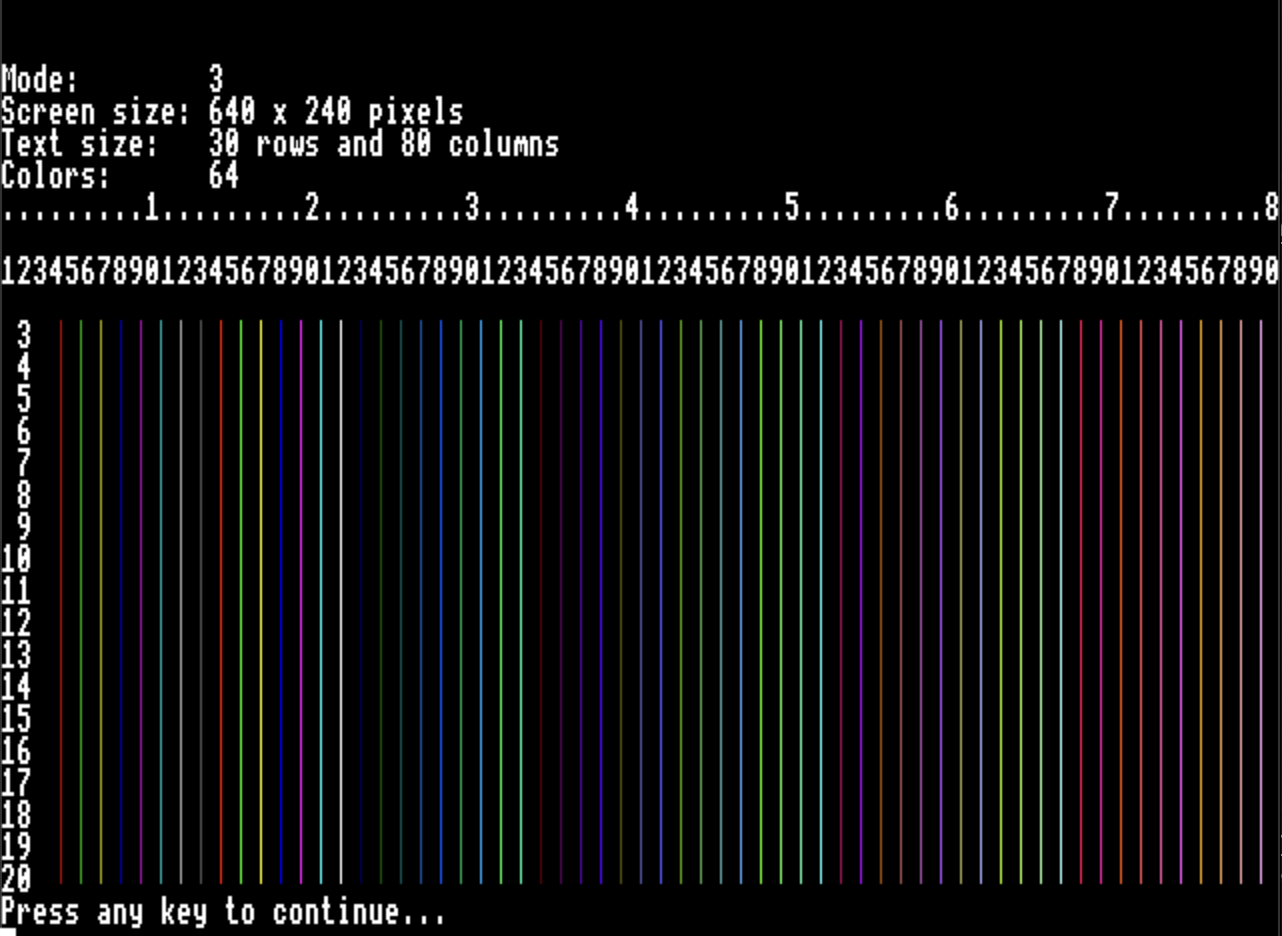
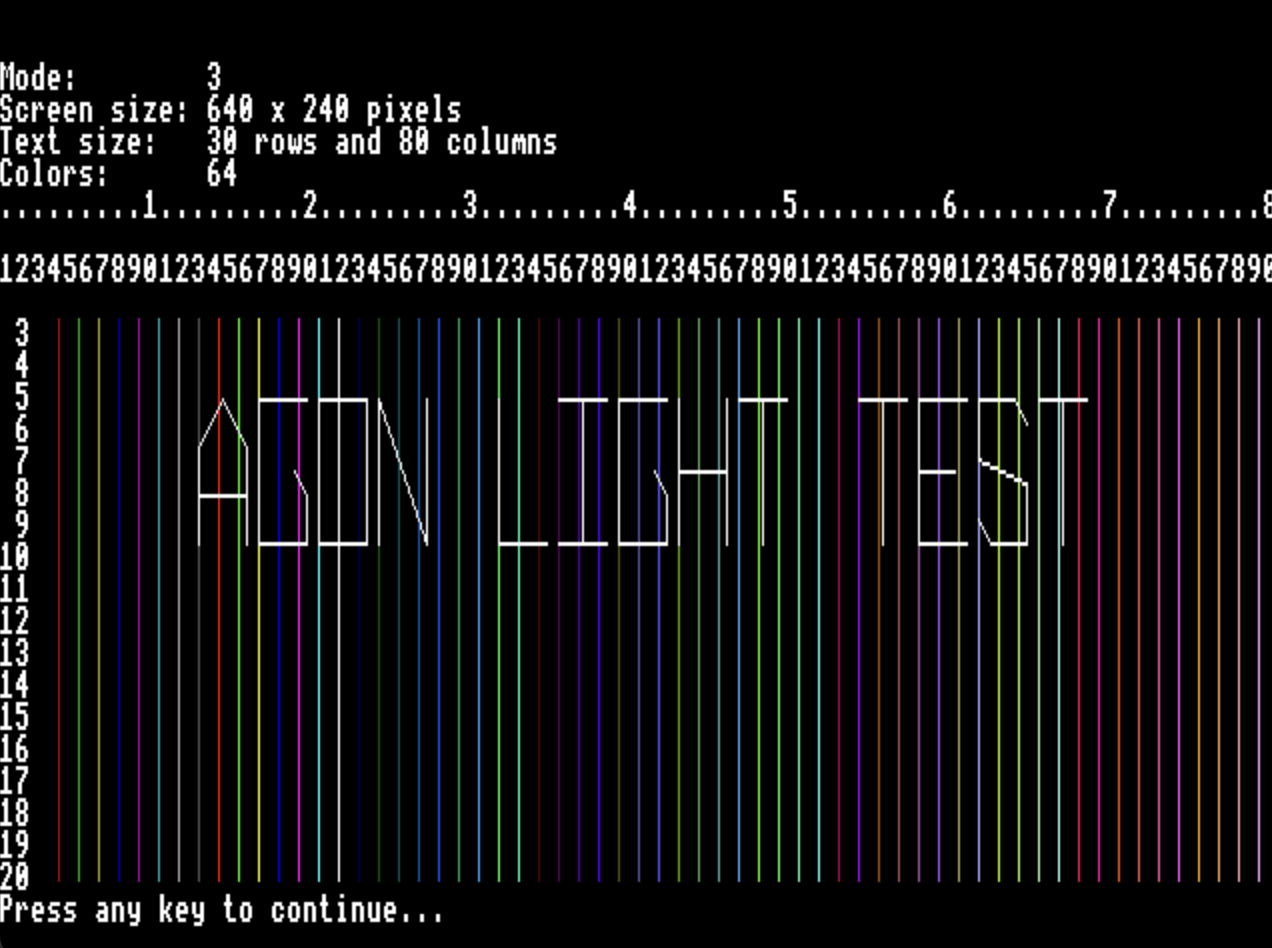
Add vtext

Changed region(s): [[0.0, 0.062, 1.0, 1.0]]

diff --git a/src/rb_vtext.c b/src/rb_vtext.c
@@ -1,0 +1,177 @@
+//
+//  rb_vtext.c
+//  3d wireframe game engine
+//
+//  Vector font drawing
+//
+//  04-08-2021, created by Roger Boesch
+//  Copyright © 2021 by Roger Boesch - use only with permission
+//
+
+#include "rb_vtext.h"
+
+void platform_draw_line(int x1, int y1, int x2, int y2);
+
+void _vtext_moveto(int x, int y);
+void _vtext_moveby(int x, int y);
+void _vtext_lineby(int x, int y);
+
+static int s_vtext_cursor_x = 0;
+static int s_vtext_cursor_y = 0;
+static float s_scale = 1.0f;
+
+void _vtext_moveto(int x, int y) {
+    s_vtext_cursor_x = x;
+    s_vtext_cursor_y = y;
+}
+
+void _vtext_moveby(int x, int y) {
+    s_vtext_cursor_x += x*s_scale;
+    s_vtext_cursor_y += y*s_scale;
+}
+
+void _vtext_lineby(int x, int y) {
+    platform_draw_line(s_vtext_cursor_x, s_vtext_cursor_y, s_vtext_cursor_x+x*s_scale, s_vtext_cursor_y+y*s_scale);
+
+    s_vtext_cursor_x += x*s_scale;
+    s_vtext_cursor_y += y*s_scale;
+}
+
+// MARK: - Vector font table
+
+#define P(x,y) ((((x) & 0xF) << 4) | (((y) & 0xF) << 0))
+#define FONT_UP 0xFE
+#define FONT_LAST 0xFF
+
+const unsigned char _vtext_font_table[128][8] = {
+    ['0' - 0x20] = { P(0,0), P(8,0), P(8,12), P(0,12), P(0,0), P(8,12), FONT_LAST },
+    ['1' - 0x20] = { P(4,0), P(4,12), P(3,10), FONT_LAST },
+    ['2' - 0x20] = { P(0,12), P(8,12), P(8,7), P(0,5), P(0,0), P(8,0), FONT_LAST },
+    ['3' - 0x20] = { P(0,12), P(8,12), P(8,0), P(0,0), FONT_UP, P(0,6), P(8,6), FONT_LAST },
+    ['4' - 0x20] = { P(0,12), P(0,6), P(8,6), FONT_UP, P(8,12), P(8,0), FONT_LAST },
+    ['5' - 0x20] = { P(0,0), P(8,0), P(8,6), P(0,7), P(0,12), P(8,12), FONT_LAST },
+    ['6' - 0x20] = { P(0,12), P(0,0), P(8,0), P(8,5), P(0,7), FONT_LAST },
+    ['7' - 0x20] = { P(0,12), P(8,12), P(8,6), P(4,0), FONT_LAST },
+    ['8' - 0x20] = { P(0,0), P(8,0), P(8,12), P(0,12), P(0,0), FONT_UP, P(0,6), P(8,6), },
+    ['9' - 0x20] = { P(8,0), P(8,12), P(0,12), P(0,7), P(8,5), FONT_LAST },
+    [' ' - 0x20] = { FONT_LAST },
+    ['.' - 0x20] = { P(3,0), P(4,0), FONT_LAST },
+    [',' - 0x20] = { P(2,0), P(4,2), FONT_LAST },
+    ['-' - 0x20] = { P(2,6), P(6,6), FONT_LAST },
+    ['+' - 0x20] = { P(1,6), P(7,6), FONT_UP, P(4,9), P(4,3), FONT_LAST },
+    ['!' - 0x20] = { P(4,0), P(3,2), P(5,2), P(4,0), FONT_UP, P(4,4), P(4,12), FONT_LAST },
+    ['#' - 0x20] = { P(0,4), P(8,4), P(6,2), P(6,10), P(8,8), P(0,8), P(2,10), P(2,2) },
+    ['^' - 0x20] = { P(2,6), P(4,12), P(6,6), FONT_LAST },
+    ['=' - 0x20] = { P(1,4), P(7,4), FONT_UP, P(1,8), P(7,8), FONT_LAST },
+    ['*' - 0x20] = { P(0,0), P(4,12), P(8,0), P(0,8), P(8,8), P(0,0), FONT_LAST },
+    ['_' - 0x20] = { P(0,0), P(8,0), FONT_LAST },
+    ['/' - 0x20] = { P(0,0), P(8,12), FONT_LAST },
+    ['\\' - 0x20] = { P(0,12), P(8,0), FONT_LAST },
+    ['@' - 0x20] = { P(8,4), P(4,0), P(0,4), P(0,8), P(4,12), P(8,8), P(4,4), P(3,6) },
+    ['$' - 0x20] = { P(6,2), P(2,6), P(6,10), FONT_UP, P(4,12), P(4,0), FONT_LAST },
+    ['&' - 0x20] = { P(8,0), P(4,12), P(8,8), P(0,4), P(4,0), P(8,4), FONT_LAST },
+    ['[' - 0x20] = { P(6,0), P(2,0), P(2,12), P(6,12), FONT_LAST },
+    [']' - 0x20] = { P(2,0), P(6,0), P(6,12), P(2,12), FONT_LAST },
+    ['(' - 0x20] = { P(6,0), P(2,4), P(2,8), P(6,12), FONT_LAST },
+    [')' - 0x20] = { P(2,0), P(6,4), P(6,8), P(2,12), FONT_LAST },
+    ['{' - 0x20] = { P(6,0), P(4,2), P(4,10), P(6,12), FONT_UP, P(2,6), P(4,6), FONT_LAST },
+    ['}' - 0x20] = { P(4,0), P(6,2), P(6,10), P(4,12), FONT_UP, P(6,6), P(8,6), FONT_LAST },
+    ['%' - 0x20] = { P(0,0), P(8,12), FONT_UP, P(2,10), P(2,8), FONT_UP, P(6,4), P(6,2) },
+    ['<' - 0x20] = { P(6,0), P(2,6), P(6,12), FONT_LAST },
+    ['>' - 0x20] = { P(2,0), P(6,6), P(2,12), FONT_LAST },
+    ['|' - 0x20] = { P(4,0), P(4,5), FONT_UP, P(4,6), P(4,12), FONT_LAST },
+    [':' - 0x20] = { P(4,9), P(4,7), FONT_UP, P(4,5), P(4,3), FONT_LAST },
+    [';' - 0x20] = { P(4,9), P(4,7), FONT_UP, P(4,5), P(1,2), FONT_LAST },
+    ['"' - 0x20] = { P(2,10), P(2,6), FONT_UP, P(6,10), P(6,6), FONT_LAST },
+    ['\'' - 0x20] = { P(2,6), P(6,10), FONT_LAST },
+    ['`' - 0x20] = { P(2,10), P(6,6), FONT_LAST },
+    ['~' - 0x20] = { P(0,4), P(2,8), P(6,4), P(8,8), FONT_LAST },
+    ['?' - 0x20] = { P(0,8), P(4,12), P(8,8), P(4,4), FONT_UP, P(4,1), P(4,0), FONT_LAST },
+    ['A' - 0x20] = { P(0,0), P(0,8), P(4,12), P(8,8), P(8,0), FONT_UP, P(0,4), P(8,4) },
+    ['B' - 0x20] = { P(0,0), P(0,12), P(4,12), P(8,10), P(4,6), P(8,2), P(4,0), P(0,0) },
+    ['C' - 0x20] = { P(8,0), P(0,0), P(0,12), P(8,12), FONT_LAST },
+    ['D' - 0x20] = { P(0,0), P(0,12), P(4,12), P(8,8), P(8,4), P(4,0), P(0,0), FONT_LAST },
+    ['E' - 0x20] = { P(8,0), P(0,0), P(0,12), P(8,12), FONT_UP, P(0,6), P(6,6), FONT_LAST },
+    ['F' - 0x20] = { P(0,0), P(0,12), P(8,12), FONT_UP, P(0,6), P(6,6), FONT_LAST },
+    ['G' - 0x20] = { P(6,6), P(8,4), P(8,0), P(0,0), P(0,12), P(8,12), FONT_LAST },
+    ['H' - 0x20] = { P(0,0), P(0,12), FONT_UP, P(0,6), P(8,6), FONT_UP, P(8,12), P(8,0) },
+    ['I' - 0x20] = { P(0,0), P(8,0), FONT_UP, P(4,0), P(4,12), FONT_UP, P(0,12), P(8,12) },
+    ['J' - 0x20] = { P(0,4), P(4,0), P(8,0), P(8,12), FONT_LAST },
+    ['K' - 0x20] = { P(0,0), P(0,12), FONT_UP, P(8,12), P(0,6), P(6,0), FONT_LAST },
+    ['L' - 0x20] = { P(8,0), P(0,0), P(0,12), FONT_LAST },
+    ['M' - 0x20] = { P(0,0), P(0,12), P(4,8), P(8,12), P(8,0), FONT_LAST },
+    ['N' - 0x20] = { P(0,0), P(0,12), P(8,0), P(8,12), FONT_LAST },
+    ['O' - 0x20] = { P(0,0), P(0,12), P(8,12), P(8,0), P(0,0), FONT_LAST },
+    ['P' - 0x20] = { P(0,0), P(0,12), P(8,12), P(8,6), P(0,5), FONT_LAST },
+    ['Q' - 0x20] = { P(0,0), P(0,12), P(8,12), P(8,4), P(0,0), FONT_UP, P(4,4), P(8,0) },
+    ['R' - 0x20] = { P(0,0), P(0,12), P(8,12), P(8,6), P(0,5), FONT_UP, P(4,5), P(8,0) },
+    ['S' - 0x20] = { P(0,2), P(2,0), P(8,0), P(8,5), P(0,7), P(0,12), P(6,12), P(8,10) },
+    ['T' - 0x20] = { P(0,12), P(8,12), FONT_UP, P(4,12), P(4,0), FONT_LAST },
+    ['U' - 0x20] = { P(0,12), P(0,2), P(4,0), P(8,2), P(8,12), FONT_LAST },
+    ['V' - 0x20] = { P(0,12), P(4,0), P(8,12), FONT_LAST },
+    ['W' - 0x20] = { P(0,12), P(2,0), P(4,4), P(6,0), P(8,12), FONT_LAST },
+    ['X' - 0x20] = { P(0,0), P(8,12), FONT_UP, P(0,12), P(8,0), FONT_LAST },
+    ['Y' - 0x20] = { P(0,12), P(4,6), P(8,12), FONT_UP, P(4,6), P(4,0), FONT_LAST },
+    ['Z' - 0x20] = { P(0,12), P(8,12), P(0,0), P(8,0), FONT_UP, P(2,6), P(6,6), FONT_LAST },
+
+    // Special chars from 65 to 96
+    [65] = { P(0,0), P(0,12), P(7,12), P(7,0), P(0,0), FONT_LAST },
+    [66] = { P(0,0), P(4,12), P(8,0), P(0,0), FONT_LAST },
+    [67] = { P(0,6), P(8,6), P(8,7), P(0,7), FONT_LAST },
+};
+
+#define FONT_SCALE_FACTOR   1
+#define FONT_WIDTH          10*FONT_SCALE_FACTOR
+#define FONT_HEIGHT         16*FONT_SCALE_FACTOR
+
+void _vtext_draw_char(char ch) {
+    if (ch == '\0')
+        ch = ' ';
+
+    const unsigned char* p = _vtext_font_table[ch-0x20];
+    unsigned char bright = 0;
+    unsigned char x = 0;
+    unsigned char y = 0;
+    unsigned char i;
+    
+    for (i=0; i<8; i++) {
+        unsigned char b = *p++;
+        
+        if (b == FONT_LAST)
+            break; // last move
+        else if (b == FONT_UP)
+            bright = 0; // pen up
+        else {
+            unsigned char x2 = (b>>4)*FONT_SCALE_FACTOR;
+            unsigned char y2 = (b&15)*FONT_SCALE_FACTOR;
+
+            if (bright == 0)
+                _vtext_moveby((char)(x2-x), (char)-(y2-y));
+            else {
+                _vtext_lineby((char)(x2-x), (char)-(y2-y));
+            }
+            
+            bright = 4;
+            x = x2;
+            y = y2;
+        }
+    }
+}
+
+void _vtext_draw_char_xy(int x, int y, char ch) {
+    _vtext_moveto(x, y+FONT_HEIGHT);
+    _vtext_draw_char(ch);
+}
+
+void vtext_draw_string(int x, int y, char* str, float scale) {
+    s_scale = scale;
+    
+    while (*str != 0) {
+        char ch = *str;
+    
+        _vtext_draw_char_xy(x, y, ch);
+        x += FONT_WIDTH*s_scale;
+        
+        str++;
+    }
+}

diff --git a/src/main.c b/src/main.c
@@ -1,6 +1,7 @@
 
 #include <stdio.h>
-#include "vdp.h"
+#include "rb_vdp.h"
+#include "rb_vtext.h"
 
 int main(void) {
     // Function from toolchain
@@ -47,6 +48,10 @@ int main(void) {
 		    vdp_plot_lineto(20+c*10, sv->scrHeight-20);
         }
 
+        // Vector text
+        vdp_set_plot_color(BRIGHT_WHITE);
+        vtext_draw_string(100, sv->scrHeight/2, "AGON LIGHT TEST", 3);
+
 		printf("Press any key to continue...\n");
 		getchar();
 	}		
@@ -55,4 +60,11 @@ int main(void) {
     vdp_clear_graphics();
 
 	return 0;
+}
+
+// Callback for vtext
+
+void platform_draw_line(int x1, int y1, int x2, int y2) {
+    vdp_plot_moveto(x1, y1);
+    vdp_plot_lineto(x2, y2);     
 }

diff --git a/src/rb_vtext.h b/src/rb_vtext.h
@@ -1,0 +1,26 @@
+//
+//  rb_vtext.h
+//  3d wireframe game engine
+//
+//  Vector font drawing
+//
+//  04-08-2021, created by Roger Boesch
+//  Copyright © 2021 by Roger Boesch - use only with permission
+//
+
+#ifndef RB_VTEXT_H
+#define RB_VTEXT_H
+
+typedef unsigned char byte;
+
+#ifdef __cplusplus
+extern "C" {
+#endif
+
+void vtext_draw_string(int x, int y, char* str, float scale);
+   
+#ifdef __cplusplus
+}
+#endif
+
+#endif

diff --git a/src/rb_vdp.c b/src/rb_vdp.c
@@ -1,4 +1,4 @@
-#include "vdp.h"
+#include "rb_vdp.h"
 
 // Internal functions
 
